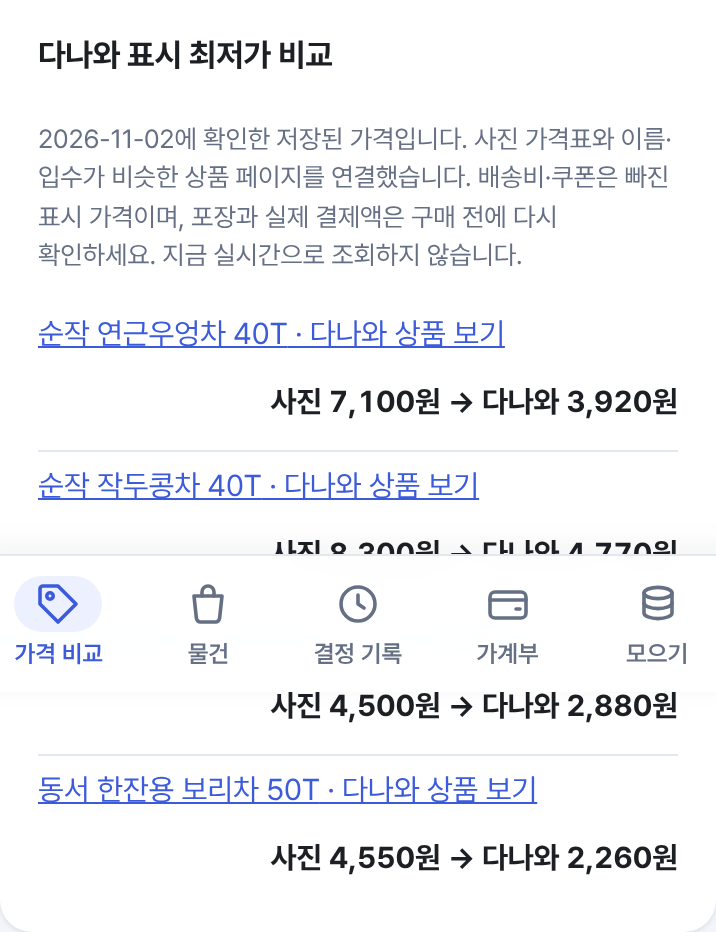
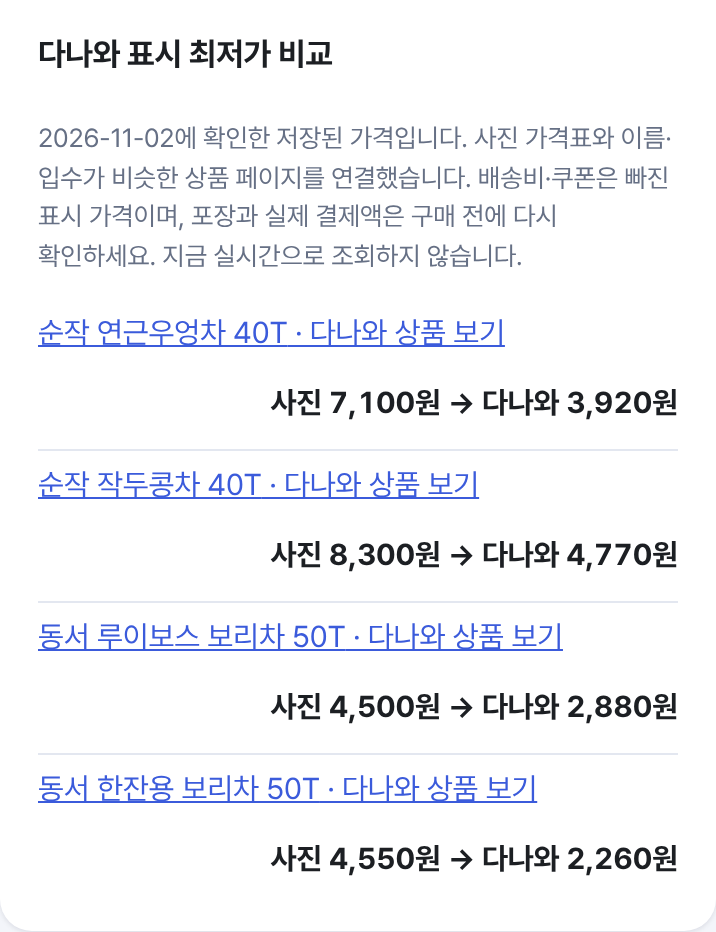
feat: photo demo shows ramen, tea and jelly shelves from real Gemini reads
Replace the two crops of the same tea shelf (rt02, rt03) with the maker's
own ramen and jelly shelf photos. Each was sent once to the local worker's
POST /api/read-tag (gemini-3.5-flash-lite); both returned 200. Names,
prices and counts are copied unchanged; the three jelly items Gemini could
not price show "가격표를 읽지 못함". The page opens on the ramen shelf;
the Danawa comparison stays on the tea shelf. No AI call on the public page.

Docs: PRD 0.94 (F83), README section 3, AI eval log (no accuracy claim),
re-shot README images; capture.cjs hides the fixed bottom menu for the two
partial shots so it no longer covers the Danawa rows.

Claude-Session: https://claude.ai/code/session_01S73EWiX1Ge5Mz64WEcmSVr

diff --git a/src/screens/ai/DemoPhotoCompare.tsx b/src/screens/ai/DemoPhotoCompare.tsx
@@ -2,10 +2,21 @@ import { useState } from 'react'
 import { formatWon } from '../../logic/number'
 import { Button } from '../../ui/Button'
 
-// 2026-11-02 로컬 Gemini 가격표 시험의 저장된 응답(rt01~rt03). 공개 화면에서는 AI를 호출하지 않는다.
+// 2026-11-02 로컬 Gemini(gemini-3.5-flash-lite) /api/read-tag 응답에서 상품명·가격·개수만 고치지 않고 옮겼다.
+// ramen·jelly는 제작자가 직접 찍은 사진, rt01은 CC0 차 진열 사진이다. 처음에는 라면 진열대를 보여 준다(2026-11-02 제작자 요청). 공개 화면에서는 AI를 호출하지 않는다.
 const samples = [
   {
-    id: 'rt01', label: '차 진열대 위 칸',
+    id: 'ramen', label: '라면 진열대', alt: '라면 봉지와 컵라면, 선반 가격표가 보이는 라면 진열대',
+    items: [
+      { name: '농심)사천왕마라탕면컵', price: 2700, count: null },
+      { name: '신마이랑신룽푸마라탕면', price: 2000, count: null },
+      { name: '농심신라면', price: 1000, count: null },
+      { name: '농심)신라면더레드봉지', price: 1500, count: null },
+      { name: '농심)신라면블랙', price: 1900, count: null },
+    ],
+  },
+  {
+    id: 'rt01', label: '차 진열대', alt: '차 상자 여섯 개와 노란 가격표가 보이는 차 진열대',
     items: [
       { name: '샘표순작연근우엉차', price: 7100, count: null },
       { name: '샘표도라지생강차티백', price: 8300, count: null },
@@ -16,23 +27,25 @@ const samples = [
     ],
   },
   {
-    id: 'rt02', label: '차 진열대 가운데 칸',
+    id: 'jelly', label: '젤리 진열대', alt: '젤리 봉지가 걸려 있고 가격표가 붙은 젤리 진열대',
     items: [
-      { name: '현미녹차', price: 2400, count: 25 },
-      { name: '한잔용보리차', price: 1950, count: 20 },
-      { name: '한잔용옥수수차', price: 2050, count: 20 },
-      { name: '루이보스보리차', price: 2300, count: 25 },
-      { name: '둥글레차', price: 3150, count: 25 },
-    ],
-  },
-  {
-    id: 'rt03', label: '차 진열대 아래 칸',
-    items: [
-      { name: '동서 한잔용 보리차', price: 8300, count: 100 },
-      { name: '동서 한잔용 옥수수차', price: 8400, count: 100 },
-      { name: '동서 현미녹차', price: 7600, count: 100 },
-      { name: '동서 메밀차', price: 8300, count: 100 },
-      { name: '동서 캐모마일 현미녹차', price: 10150, count: 80 },
+      { name: '페타구구미', price: 1800, count: null },
+      { name: '피니해피소스믹스', price: 1200, count: null },
+      { name: '피니콜라보틀', price: 1000, count: null },
+      { name: '피니해피믹스', price: null, count: null },
+      { name: '피니피지웜', price: null, count: null },
+      { name: '구미다요', price: null, count: null },
+      { name: '리치알알이', price: 1200, count: null },
+      { name: '청포도알알이', price: 1200, count: null },
+      { name: '마이구미', price: 1000, count: null },
+      { name: '마이구미복숭아포도', price: 1000, count: null },
+      { name: '왕꿈틀이', price: 1000, count: null },
+      { name: '탱글탱글키위', price: 2500, count: null },
+      { name: '레전', price: 1700, count: null },
+      { name: '레전사워젤리', price: 1700, count: null },
+      { name: '제조애플탱탱', price: 2500, count: null },
+      { name: '까먹는포도젤리', price: 2000, count: null },
+      { name: '까먹는망고젤리', price: 2000, count: null },
     ],
   },
 ] as const
@@ -49,8 +62,8 @@ const danawaChecks = [
 export function DemoPhotoCompare() {
   const [selected, setSelected] = useState(0)
   const sample = samples[selected]
-  const withCount = sample.items.filter((item) => item.count !== null)
-  const cheapest = withCount.length ? [...withCount].sort((a, b) => a.price / a.count! - b.price / b.count!)[0] : null
+  const withCount = sample.items.filter((item) => item.count !== null && item.price !== null)
+  const cheapest = withCount.length ? [...withCount].sort((a, b) => a.price! / a.count! - b.price! / b.count!)[0] : null
 
   return <section className="stack" aria-label="가격표 사진 예시 시연">
     <h3 className="section-title">가격표 사진 예시</h3>
@@ -59,15 +72,15 @@ export function DemoPhotoCompare() {
       <div className="btn-row" role="group" aria-label="예시 사진 선택">
         {samples.map((item, index) => <Button key={item.id} aria-pressed={selected === index} onClick={() => setSelected(index)}>{item.label}</Button>)}
       </div>
-      <img src={`${import.meta.env.BASE_URL}demo/${sample.id}.jpg`} alt={`${sample.label}의 차 상품과 가격표`} style={{ width: '100%', height: 'auto', display: 'block', borderRadius: '12px' }} />
+      <img src={`${import.meta.env.BASE_URL}demo/${sample.id}.jpg`} alt={sample.alt} style={{ width: '100%', height: 'auto', display: 'block', borderRadius: '12px' }} />
     </div>
     {/* 처음부터 고른 사진의 저장된 결과를 펼쳐 둔다 (F83, 2026-11-02 제작자 요청 "들어가자마자 켜져 있도록") */}
     <section className="card stack" aria-label="미리 읽은 품목과 가격 비교">
       <h4 className="card-title">미리 읽은 품목과 가격</h4>
       <p className="note">2026-11-02 로컬 Gemini 응답을 그대로 옮겼습니다. 가격표가 흐려 잘못 읽은 항목이 있을 수 있어요.</p>
-      <ul className="result-list demo-photo-results">{sample.items.map((item) => <li key={item.name}><span>{item.name}</span><strong>{formatWon(item.price)}{item.count ? ` · ${item.count}개입, 1개당 ${formatWon(Math.round(item.price / item.count))}` : ''}</strong></li>)}</ul>
-      {cheapest ? <p><strong>개당 표시 가격이 가장 낮은 항목:</strong> {cheapest.name} · 약 {formatWon(Math.round(cheapest.price / cheapest.count!))}/개</p> : null}
-      <p className="note">서로 다른 차 종류와 포장량을 한 사진에서 비교한 예시입니다. 같은 상품의 최저가나 실제 결제액을 뜻하지 않습니다.</p>
+      <ul className="result-list demo-photo-results">{sample.items.map((item) => <li key={item.name}><span>{item.name}</span><strong>{item.price === null ? '가격표를 읽지 못함' : formatWon(item.price)}{item.price !== null && item.count ? ` · ${item.count}개입, 1개당 ${formatWon(Math.round(item.price / item.count))}` : ''}</strong></li>)}</ul>
+      {cheapest ? <p><strong>개당 표시 가격이 가장 낮은 항목:</strong> {cheapest.name} · 약 {formatWon(Math.round(cheapest.price! / cheapest.count!))}/개</p> : null}
+      <p className="note">한 사진에 보인 여러 상품의 가격표를 읽은 예시입니다. 같은 상품의 다른 판매처 가격이나 실제 결제액과 비교한 결과가 아닙니다.</p>
       {sample.id === 'rt01' ? <section className="stack" aria-label="다나와 표시 최저가 비교">
         <h4 className="card-title">다나와 표시 최저가 비교</h4>
         <p className="note">2026-11-02에 확인한 저장된 가격입니다. 사진 가격표와 이름·입수가 비슷한 상품 페이지를 연결했습니다. 배송비·쿠폰은 빠진 표시 가격이며, 포장과 실제 결제액은 구매 전에 다시 확인하세요. 지금 실시간으로 조회하지 않습니다.</p>

diff --git a/src/App.demo.test.tsx b/src/App.demo.test.tsx
@@ -13,17 +13,30 @@ it('공개 빌드의 예시 사진은 저장된 품목만 보여주고 AI 요청
   expect(screen.getByRole('tab', { name: '가격표 사진 예시' })).toHaveAttribute('aria-selected', 'true')
   await user.click(screen.getByRole('tab', { name: '가격표 사진 예시' }))
   expect(screen.getByText(/사진 버튼은 사진을 다시 분석하지 않고/)).toBeInTheDocument()
-  // 처음 열면 첫 사진의 저장된 결과가 이미 펼쳐져 있다 (F83, 2026-11-02 제작자 요청)
+  // 처음 열면 첫 사진(라면 진열대)의 저장된 결과가 이미 펼쳐져 있다 (F83, 2026-11-02 제작자 요청 "들어가자마자 켜져 있도록", "처음 차 말고 라면으로")
   expect(screen.queryByRole('button', { name: '이 사진의 저장된 결과 보기' })).not.toBeInTheDocument()
+  expect(screen.getAllByRole('button', { name: /진열대$/ }).map((b) => b.textContent)).toEqual(['라면 진열대', '차 진열대', '젤리 진열대'])
+  expect(screen.getByRole('button', { name: '라면 진열대' })).toHaveAttribute('aria-pressed', 'true')
+  expect(screen.getByRole('img', { name: /라면 진열대/ })).toHaveAttribute('src', expect.stringMatching(/demo\/ramen\.jpg$/))
+  const ramen = within(screen.getByRole('region', { name: '미리 읽은 품목과 가격 비교' }))
+  expect(ramen.getByText('농심)신라면블랙')).toBeInTheDocument()
+  expect(ramen.getByText('1,900원')).toBeInTheDocument()
+  expect(ramen.queryByRole('heading', { name: '다나와 표시 최저가 비교' })).not.toBeInTheDocument()
+  // 차 진열대를 고르면 그 사진의 저장된 결과와 다나와 조회값으로 바로 바뀐다
+  await user.click(screen.getByRole('button', { name: '차 진열대' }))
   const results = within(screen.getByRole('region', { name: '미리 읽은 품목과 가격 비교' }))
+  expect(results.queryByText('농심)신라면블랙')).not.toBeInTheDocument()
   expect(results.getByText('샘표순작연근우엉차')).toBeInTheDocument()
   expect(results.getByText('7,100원')).toBeInTheDocument()
   expect(results.getByRole('heading', { name: '다나와 표시 최저가 비교' })).toBeInTheDocument()
   expect(results.getByRole('link', { name: /순작 연근우엉차 40T/ })).toHaveAttribute('href', 'https://prod.danawa.com/info/?pcode=4282090')
   expect(results.getByText('사진 7,100원 → 다나와 3,920원')).toBeInTheDocument()
-  // 다른 사진을 고르면 그 사진의 저장된 결과로 바로 바뀐다
-  await user.click(screen.getByRole('button', { name: '차 진열대 가운데 칸' }))
-  expect(within(screen.getByRole('region', { name: '미리 읽은 품목과 가격 비교' })).queryByText('샘표순작연근우엉차')).not.toBeInTheDocument()
+  // 젤리 사진: Gemini가 가격을 읽지 못한 상품은 값을 지어내지 않고 그대로 '가격표를 읽지 못함'으로 둔다
+  await user.click(screen.getByRole('button', { name: '젤리 진열대' }))
+  const jelly = within(screen.getByRole('region', { name: '미리 읽은 품목과 가격 비교' }))
+  expect(jelly.getByText('왕꿈틀이')).toBeInTheDocument()
+  expect(jelly.getAllByText('가격표를 읽지 못함')).toHaveLength(3)
+  expect(jelly.queryByRole('heading', { name: '다나와 표시 최저가 비교' })).not.toBeInTheDocument()
   expect(fetch).not.toHaveBeenCalled()
   fetch.mockRestore()
 })

diff --git a/PRD.md b/PRD.md
@@ -1,9 +1,9 @@
 # 살까말까 PRD
 
-현재 개정: **0.93** · 물건·결정 기록·고정비·모으기·가격 비교도 가계부처럼(동그란 표식·큰 숫자 칸), 기능 변경 없음 (2026-11-02) · 0.92 · 가격표 사진 예시의 결과를 처음부터 펼침(F83) (2026-11-02) · 0.91 · 가계부 달 이동·분류별 지출·날짜별 내역·이달 현황판(F84, AC203~AC208) (2026-11-02) · 0.90 · 제작자 피드백으로 그라데이션을 빼고 단색만 사용, 기능 변경 없음 (2026-11-02) · 0.89 · 색감 '세련된 블루'와 제목 아이콘·그라데이션 등 장식, 기능 변경 없음 (2026-11-02) · 0.88 · 가격 비교 입력 2열·결과 강조·물건 카드 구역 구분, 기능 변경 없음 (2026-11-02) · 0.87 · 하단 메뉴·분할 하위 탭·가계부 바로가기 등 배치와 모양 개선, 기능 변경 없음 (2026-11-02) · 0.86 · 문서 정정만: 공개 사이트의 AI 표시 문장을 F83에 맞추고 화면 전후 사진을 같은 조건으로 다시 찍음, 기능 변경 없음 (2026-11-02) · 0.85 · 가계부 달력 우선 배치와 저장되지 않는 예시, 공개 사진 시연 (2026-11-02)
+현재 개정: **0.94** · 가격표 사진 예시를 차·라면·젤리 진열대 서로 다른 사진 세 장으로(F83) (2026-11-02) · 0.93 · 물건·결정 기록·고정비·모으기·가격 비교도 가계부처럼(동그란 표식·큰 숫자 칸), 기능 변경 없음 (2026-11-02) · 0.92 · 가격표 사진 예시의 결과를 처음부터 펼침(F83) (2026-11-02) · 0.91 · 가계부 달 이동·분류별 지출·날짜별 내역·이달 현황판(F84, AC203~AC208) (2026-11-02) · 0.90 · 제작자 피드백으로 그라데이션을 빼고 단색만 사용, 기능 변경 없음 (2026-11-02) · 0.89 · 색감 '세련된 블루'와 제목 아이콘·그라데이션 등 장식, 기능 변경 없음 (2026-11-02) · 0.88 · 가격 비교 입력 2열·결과 강조·물건 카드 구역 구분, 기능 변경 없음 (2026-11-02) · 0.87 · 하단 메뉴·분할 하위 탭·가계부 바로가기 등 배치와 모양 개선, 기능 변경 없음 (2026-11-02) · 0.86 · 문서 정정만: 공개 사이트의 AI 표시 문장을 F83에 맞추고 화면 전후 사진을 같은 조건으로 다시 찍음, 기능 변경 없음 (2026-11-02) · 0.85 · 가계부 달력 우선 배치와 저장되지 않는 예시, 공개 사진 시연 (2026-11-02)
 
 작성일: 2026-10-11  
-버전: 0.93 · 1장 디자인 방향에 다른 탭의 가계부식 표시(카드 이름 앞 첫 글자 표식, 요약 큰 숫자 칸, 할인 결과 A·B 두 칸과 더 싼 쪽 강조)를 추가(2026-11-02 제작자 "다른 탭들도 가계부처럼") · 0.92 · F83 가격표 사진 예시는 처음부터 첫 사진 결과를 펼치고 '결과 보기' 버튼을 없앰(2026-11-02 제작자 요청) · 0.91 · F84 가계부 보기(달 이동·세 칸 요약·분류별 지출·날짜별 내역 묶음·이달 현황판과 달별 모을 금액·지난달 비교), AC203~AC208(2026-11-02 제작자 "뱅크샐러드를 참고해 좋아 보이는 기능도") · 0.90 · 1장 디자인 방향에서 그라데이션 장식을 빼고 단색으로 정함(2026-11-02 제작자 "그라데이션은 없는 게 더 낫다") · 0.89 · 1장 디자인 방향의 강조색을 제작자가 고른 '세련된 블루'(#3b5bdb)로 바꾸고 장식 요소를 정함(2026-11-02) · 0.88 · 1장 디자인 방향에 비교 입력 2열·결과 강조·물건 카드 구분선 추가, 기능·문구 변경 없음(2026-11-02 제작자 "좀 더 개선") · 0.87 · 1장 디자인 방향에 하단 메뉴·분할 하위 탭·가계부 바로가기와 카드·입력 모양을 추가, 기능·문구 변경 없음(2026-11-02 제작자 요청) · 0.86 · 문서 정정만: 4장의 공개 사이트 AI 문장을 F83의 저장된 예시와 맞추고 화면 전후 사진의 촬영 조건을 적음, 기능 변경 없음(2026-11-02) · 0.85 · 가계부 달력 우선 배치와 저장되지 않는 예시, 공개 사진 시연(2026-11-02) · 0.83 · 고정비·모으기 화면 순서와 기본 접힘, 지원 제도 안내 및 발표 전후 비교를 보강(2026-11-02 제작자 요청) · 0.82 · 1차 이후 비AI 기능을 분야별로 대조하고 AI 재검증 기록을 연결(2026-11-02 제작자 요청) · 0.81 · 1차 이후 추가·수정 요구사항 표시와 화면 전후 비교(2026-11-02 제작자 요청) · 0.80 · 가격 비교·사진 첫 화면과 장보기·사기 전 입력 동선 보강(F31·F49·F75·F76·F79·F81, AC195~AC202; 2026-11-02 제작자 UX 요청) · 0.78 · 9장 자동 테스트 수를 AC01~AC194·1983개로 정정(2026-11-02, 28단계 보강 뒤) · 0.77 · 자잘한 지출에서 한 주 시도 선택·저장·완료 보강(F78, AC192~AC194; 2026-11-02 최종 점검) · 0.76 · 9장 자동 테스트 수를 AC01~AC191·1979개로 정정(2026-11-02, 25~27단계 구현 뒤) · 0.75 · 정기배송 결제일과 7일 비교 기간의 화면 문구를 명확히 함(2026-11-02 구현 뒤 점검) · 0.74 · 이번 주 집밥·정기배송 중복·작은 지출 시도·사기 전 요약·결제 전 확인·상황별 시작(F76~F81, AC180~AC191; 2026-11-02 제작자 “전부다 수행해보자”) · 0.73 · 9장 자동 테스트 수 정정: AC01~AC171·1952개 → AC01~AC179·1965개(2026-11-02, 결제 달력·장보기 초안 구현 뒤) · 0.72 · 30일 결제 달력·장보기 초안(F74~F75, AC172~AC179; 2026-11-02 제작자 "두개다 ㅅ", 세부는 9장 확인 전) · 0.71 · 9장 자동 테스트 수 정정: AC01~AC162·1938개 → AC01~AC171·1952개(2026-11-02, 사용 흐름 개선 구현 뒤) · 0.70 · F73 빠른 담기에 맞춰 첫 화면 설명을 짧게 고침(AC79, 2026-11-02 제작자 입력 부담 피드백) · 0.69 · F73 빠른 담기에서 F31 사진 초안의 이유 필수 안내와 AC54 기대를 선택 입력에 맞춤(2026-11-02, 23-4 구현 중) · 0.68 · 오늘 확인할 것·빠른 물건 담기(F72~F73, F01·F24·F30 보강, AC163~AC171; 2026-11-02 제작자 추가 기능 방향 동의, 세부는 9장 확인 전) · 0.67 · 9장 자동 테스트 수 정정: AC01~AC150·1917개 → AC01~AC162·1938개(2026-11-02, 절약·저축 4단계와 백업 화면 시험 뒤) · 0.66 · 1장 디자인 방향에 제작자 화면 피드백과 공통 그림·접힘 표시 반영(2026-11-02) · 0.65 · F71 친구 정산 화면·오류 문장 명시(2026-11-02, 4단계 Task 5, 9장 제작자 확인 대기) · 0.64 · F70 포인트·쿠폰 입력·오류 문장 명시(2026-11-02, 4단계 Task 4, 9장 제작자 확인 대기) · 0.63 · F69 카드 실적 입력·오류 문장과 해당 월 범위 명시(2026-11-02, 4단계 Task 3, 9장 제작자 확인 대기) · 0.62 · F68 공식 안내와 저장 상태의 화면 문장을 명시(2026-11-02, 4단계 Task 2, 9장 제작자 확인 대기) · 0.61 · 절약·저축 4단계 받을 수 있는 돈(F68~F71·F20 보강, AC151~AC162; 2026-11-02 설계 P4·제작자 요청, 새 결정은 9장 제작자 확인 전) · 0.60 · 9장 자동 테스트 수 정정: AC01~AC132·1880개 → AC01~AC150·1917개(2026-11-02, 절약·저축 3단계와 담기 화면 개선 뒤) · 0.59 · 담기 폼 접기·쓰는 곳 후보 펼치기(F24·F45·F51, AC149~AC150; 2026-11-02 제작자 화면 요청) · 0.58 · 0.57 버전 줄의 출처 문장을 9장 결정 목록 참조로 바로잡음(2026-11-01) · 0.57 · F66·F67 모으기 별도 금액 안내 문장 명시(2026-11-01, 3단계 Task 7 준비, 9장 제작자 확인 대기) · 0.56 · 절약·저축 3단계 사기 전·산 뒤(F61~F67, F20 보강, AC133~AC148; 2026-11-01 제작자 요청·설계 P3, 새 결정은 9장 제작자 확인 전) · 0.55 · 9장 자동 테스트 수 정정: AC01~AC116·1833개 → AC01~AC132·1880개(2026-11-01, 절약·저축 2단계 구현·전체 리뷰 뒤) · 0.54 · F60 배달 비교 화면 문장·최소 주문 미달 때 무료배달 비교 숨김 명시(2026-11-01, 2단계 Task 8, Claude 결정·제작자 확인 전) · 0.53 · F59 자잘한 지출 화면·저장 안내 문장 명시(2026-11-01, 2단계 Task 7 준비, Claude 결정·제작자 확인 전) · 0.52 · F58 있어서 안 산 성공 안내와 모으기 설명 명시(2026-11-01, 2단계 Task 6 준비, Claude 결정·제작자 확인 전) · 0.51 · F57 모으기의 대체 금액 문장과 빈 상태 기준 명시(2026-11-01, 2단계 Task 5 준비, Claude 결정·제작자 확인 전) · 0.50 · F54 화면·저장 안내 문장 명시(2026-11-01, 2단계 Task 2 준비, Claude 결정·제작자 확인 전) · 0.49 · 절약·저축 P2 집에 있는 것·자잘한 지출(F54~F60, F20 보강, AC117~AC132; 2026-11-01 제작자 요청과 설계 P2, 새 결정은 9장 제작자 확인 전) · 0.48 · 9장 최종 완성 기준 자동 테스트 수 정정: AC01~AC99·1741개 → AC01~AC116·1833개(2026-11-01, 절약·저축 1b 구현 뒤 전체 테스트) · 0.47 · F52 통신 비교 링크에서 스마트초이스를 제외함(2026-11-01, 20초 재확인에도 이 환경에서 접속하지 못함) · 0.46 · 절약·저축 1b: 요금 바뀜 기록(F50, 내가 낮춘 요금은 모으기의 줄어든 고정비에)·같은 곳에 쓰는 구독·멤버십(F51)·통신 약정과 요금 비교 링크(F52)·수도·가스·전기 요금(F53, 새 키 `buyornot.bills.v1`)·정기배송 주마다와 고정비 저장 안내 이름(F45 보강)·무료 체험 끝나기 전날 캘린더(F46 보강)·해지한 날과 요금 바뀐 날(F47 보강)·백업 v2에 공과금(F20 보강), AC100~AC116, AC84 기대 문장(2026-11-01, 설계 문서 P1b와 총괄 판정 R45·R46·R47을 따름. 새 동작은 모두 9장 '절약·저축 1b에서 정한 것'에 제작자 확인 전으로 있음) · 0.45 · 9장 최종 완성 기준의 자동 테스트 수 정정: AC01~AC80·1551개 → AC01~AC99·1741개, 9장 정하지 못한 것에 고정비 종류를 바꿀 때의 안내 질문 한 줄(2026-11-01, 절약·저축 1a 최종 검토 뒤) · 0.44 · 절약·저축 1a: 고정비 정리함(F45, 구독 탭을 넓힘)·무료 체험 끝나는 날(F46)·해지했어요(F47)·모으기(F48, 줄어든 고정비·참은 구매·옮긴 돈을 따로, 저축 목표)·주요 메뉴 다섯 개(F49)·백업 v2(F20 보강), AC81~AC99(2026-11-01, 설계 문서·GPT 53번 상담·빌더 점검 뒤 총괄 판정을 따름. 새 동작은 모두 9장 '절약·저축 1a에서 정한 것'에 제작자 확인 전으로 있음) · 0.43 · F44 캡처 크게 보기(R29-N1) 이유에 10/31 정정을 덧붙임: 근거로 적은 평가 A H1은 남아 있던 모의 응답이었다(2026-10-31, 평가 C) · 0.42 · F24 완료 기준에 AC80 연결(2026-10-31, 개발 2회차 최종 재검토) · 0.41 · 9장 최종 완성 기준의 자동 테스트 수 정정: AC01~AC79·1544개 → AC01~AC80·1551개(2026-10-31, 개발 2회차 전체 리뷰 뒤) · 0.40 · 담은 물건을 바로 결정하거나 지우면 담은 직후 안내와 '방금 담았어요.'도 사라짐(F24, 판정 R43, AC80, 2026-10-31 개발 2회차 전체 리뷰, Claude 결정·제작자 확인 전) · 0.39 · 9장 최종 완성 기준의 자동 테스트 수 정정: AC01~AC68·1465개 → AC01~AC79·1544개(2026-10-31, 평가 B P10, 판정 R38) · 0.38 · 평가 2회차(평가 B) 개선: Gemini가 429를 주면 `429 upstream_limited`와 새 실패 문구, 키가 없거나 비면 Gemini를 부르지 않고 `503 disabled`(10장 AI 공통·F43, 판정 R38-P6), F32 확인 상자 첫 줄 'AI가 읽은 내용'과 F32·F44 확인 상자 첫 줄을 상자 설명으로(R38-I8·R38-P9), 구매함으로 옮긴 직후 회고 안내 한 줄(F18, R38-N3), 빈 목록일 때 서비스 설명 문장을 담기 폼 위로(F24, R38-I3), AC60 기대값, AC75~AC79(2026-10-31, 평가 B, GPT 51번, Claude 결정, 제작자 확인 전) · 0.37 · F44 치수 읽기 문구(R29-I1)의 이유에 정정: 평가 때 본 사진에 없는 치수는 남아 있던 모의 응답이었음(2026-10-31, 평가 B 뒤 확인) · 0.36 · 다른 탭 때문에 담기가 반영되지 않으면 담은 직후 안내를 띄우지 않고 입력을 그대로 둠(F24, 판정 R30), 8장 기술 문장의 '서버를 쓰지 않음' 정정(2026-10-31, 개발 1회차 준비, Claude 결정·제작자 확인 전) · 0.35 · 평가 1회차 고칠 것: 9장 남은 결정을 한 줄씩 목록으로 바꾸고 빠진 결정을 채움(P5), 사진 초안 링크 비우기(F31, 판정 R29-P2), 담은 직후 새 카드로(F24, R29-P3), 치수 읽기 'AI가 읽은 내용'(F44, R29-I1)·캡처 크게 보기(F44, R29-N1), 결과 화면 문구(F31·F32·F06, R29-I2), AC69~AC74, 9장 테스트 수·AC63 시험용 값 정정(2026-10-31, 평가 1회차 결정, GPT 50번, Claude 결정·제작자 확인 전) · 0.34: Gemini 출력 길이 상한(가격표 6144·나머지 4096)과 치수를 글자로 받기(판정 R25~R27, 2026-10-31, GPT 49번, Claude 결정·제작자 확인 전) · 0.33: F44 2단계 표기 세부(모르는 축 '모름', 상태 이름 위치, 판정 R23, 2026-10-30, Claude 결정·제작자 확인 전) · 0.32: AC65 '다른 탭에서 결정된 뒤 저장'을 기존 여러 탭 규칙(AC37-2)과 맞춤(판정 R22, 2026-10-30, Claude 결정·제작자 확인 전) · 0.31: F43 '더 읽음' 문장의 조사를 AC63 예와 맞춤({상품을|표기를}, 2026-10-30 구현 중) · 0.30: F31 상품명이 비면 온라인 확인을 막고 "상품명을 적어 주세요"·상품명 칸 80자 상한(최종 리뷰, 2026-10-30, Claude 결정·제작자 확인 전) · 0.29: F43 채점 세부(단가 가격표 정답·최저가가 같은 허용 줄·모양이 다른 응답, 판정 R14·R15, 2026-10-30, Claude 결정·제작자 확인 전) · 0.28: F33 녹음 형식이 비면 보내지 않음(R11)·받아쓰는 중 메뉴 이동은 계속(R12)·담아 두면 녹음·받아쓰기를 끊음(R13)(2026-10-30, Claude 결정·제작자 확인 전) · 0.27: F33 받아쓴 말이 비면 첫 안내 줄을 뺌(판정 R10)·'을/를 채웠어요'(2026-10-30, Claude 결정·제작자 확인 전) · 0.26: 구현 중 정한 것 반영: 사진 고르기에 capture 없음, F31 진행 문구·결과 제목, F32 상품 0개 문장·단위를 고른 뒤 채울 값 다시 보이기·'개'를 고르면 계산용 개수 비움(2026-10-30, 판정 R7~R9, Claude 결정·제작자 확인 전) · 0.25: 앱 사진 대기 상한 45초 → 60초(요청 하나마다, 서버 55초 + 5초, 2026-10-30, GPT 45번, Claude 결정·제작자 확인 전) · 0.24: 1단계 이어서 F43 AI 성적표·F44 놓을 자리 확인(2026-10-29, GPT 37~41번 상담 반영) · 0.23: 중간 과제 AI 기능 1단계 명세(F31~F33·F35, 2026-10-28, GPT 33~36번 상담 반영) · 0.22까지: 4차 추가(고민 노트) + 다듬기 + 구독 이용 분석 1단계(넷플릭스 시청 기록 파일) + 카드·담기 폼 체크리스트 + 회고를 비슷한 기록에 연결 + 오늘의 고민으로 이동 + 묶음 비교에 한 달에 쓰는 양, 무료배송 탭 뺌(10/13)
+버전: 0.94 · F83 가격표 사진 예시를 같은 차 진열대 사진의 세 칸에서 서로 다른 사진 세 장(차 진열대 CC0·라면 진열대·젤리 진열대 제작자 직접 촬영)으로 바꾸고 처음 보이는 사진을 라면 진열대로 함. 라면·젤리는 2026-11-02 로컬 Gemini 실제 응답의 상품명·가격·개수를 고치지 않고 옮김(2026-11-02 제작자 요청) · 0.93 · 1장 디자인 방향에 다른 탭의 가계부식 표시(카드 이름 앞 첫 글자 표식, 요약 큰 숫자 칸, 할인 결과 A·B 두 칸과 더 싼 쪽 강조)를 추가(2026-11-02 제작자 "다른 탭들도 가계부처럼") · 0.92 · F83 가격표 사진 예시는 처음부터 첫 사진 결과를 펼치고 '결과 보기' 버튼을 없앰(2026-11-02 제작자 요청) · 0.91 · F84 가계부 보기(달 이동·세 칸 요약·분류별 지출·날짜별 내역 묶음·이달 현황판과 달별 모을 금액·지난달 비교), AC203~AC208(2026-11-02 제작자 "뱅크샐러드를 참고해 좋아 보이는 기능도") · 0.90 · 1장 디자인 방향에서 그라데이션 장식을 빼고 단색으로 정함(2026-11-02 제작자 "그라데이션은 없는 게 더 낫다") · 0.89 · 1장 디자인 방향의 강조색을 제작자가 고른 '세련된 블루'(#3b5bdb)로 바꾸고 장식 요소를 정함(2026-11-02) · 0.88 · 1장 디자인 방향에 비교 입력 2열·결과 강조·물건 카드 구분선 추가, 기능·문구 변경 없음(2026-11-02 제작자 "좀 더 개선") · 0.87 · 1장 디자인 방향에 하단 메뉴·분할 하위 탭·가계부 바로가기와 카드·입력 모양을 추가, 기능·문구 변경 없음(2026-11-02 제작자 요청) · 0.86 · 문서 정정만: 4장의 공개 사이트 AI 문장을 F83의 저장된 예시와 맞추고 화면 전후 사진의 촬영 조건을 적음, 기능 변경 없음(2026-11-02) · 0.85 · 가계부 달력 우선 배치와 저장되지 않는 예시, 공개 사진 시연(2026-11-02) · 0.83 · 고정비·모으기 화면 순서와 기본 접힘, 지원 제도 안내 및 발표 전후 비교를 보강(2026-11-02 제작자 요청) · 0.82 · 1차 이후 비AI 기능을 분야별로 대조하고 AI 재검증 기록을 연결(2026-11-02 제작자 요청) · 0.81 · 1차 이후 추가·수정 요구사항 표시와 화면 전후 비교(2026-11-02 제작자 요청) · 0.80 · 가격 비교·사진 첫 화면과 장보기·사기 전 입력 동선 보강(F31·F49·F75·F76·F79·F81, AC195~AC202; 2026-11-02 제작자 UX 요청) · 0.78 · 9장 자동 테스트 수를 AC01~AC194·1983개로 정정(2026-11-02, 28단계 보강 뒤) · 0.77 · 자잘한 지출에서 한 주 시도 선택·저장·완료 보강(F78, AC192~AC194; 2026-11-02 최종 점검) · 0.76 · 9장 자동 테스트 수를 AC01~AC191·1979개로 정정(2026-11-02, 25~27단계 구현 뒤) · 0.75 · 정기배송 결제일과 7일 비교 기간의 화면 문구를 명확히 함(2026-11-02 구현 뒤 점검) · 0.74 · 이번 주 집밥·정기배송 중복·작은 지출 시도·사기 전 요약·결제 전 확인·상황별 시작(F76~F81, AC180~AC191; 2026-11-02 제작자 “전부다 수행해보자”) · 0.73 · 9장 자동 테스트 수 정정: AC01~AC171·1952개 → AC01~AC179·1965개(2026-11-02, 결제 달력·장보기 초안 구현 뒤) · 0.72 · 30일 결제 달력·장보기 초안(F74~F75, AC172~AC179; 2026-11-02 제작자 "두개다 ㅅ", 세부는 9장 확인 전) · 0.71 · 9장 자동 테스트 수 정정: AC01~AC162·1938개 → AC01~AC171·1952개(2026-11-02, 사용 흐름 개선 구현 뒤) · 0.70 · F73 빠른 담기에 맞춰 첫 화면 설명을 짧게 고침(AC79, 2026-11-02 제작자 입력 부담 피드백) · 0.69 · F73 빠른 담기에서 F31 사진 초안의 이유 필수 안내와 AC54 기대를 선택 입력에 맞춤(2026-11-02, 23-4 구현 중) · 0.68 · 오늘 확인할 것·빠른 물건 담기(F72~F73, F01·F24·F30 보강, AC163~AC171; 2026-11-02 제작자 추가 기능 방향 동의, 세부는 9장 확인 전) · 0.67 · 9장 자동 테스트 수 정정: AC01~AC150·1917개 → AC01~AC162·1938개(2026-11-02, 절약·저축 4단계와 백업 화면 시험 뒤) · 0.66 · 1장 디자인 방향에 제작자 화면 피드백과 공통 그림·접힘 표시 반영(2026-11-02) · 0.65 · F71 친구 정산 화면·오류 문장 명시(2026-11-02, 4단계 Task 5, 9장 제작자 확인 대기) · 0.64 · F70 포인트·쿠폰 입력·오류 문장 명시(2026-11-02, 4단계 Task 4, 9장 제작자 확인 대기) · 0.63 · F69 카드 실적 입력·오류 문장과 해당 월 범위 명시(2026-11-02, 4단계 Task 3, 9장 제작자 확인 대기) · 0.62 · F68 공식 안내와 저장 상태의 화면 문장을 명시(2026-11-02, 4단계 Task 2, 9장 제작자 확인 대기) · 0.61 · 절약·저축 4단계 받을 수 있는 돈(F68~F71·F20 보강, AC151~AC162; 2026-11-02 설계 P4·제작자 요청, 새 결정은 9장 제작자 확인 전) · 0.60 · 9장 자동 테스트 수 정정: AC01~AC132·1880개 → AC01~AC150·1917개(2026-11-02, 절약·저축 3단계와 담기 화면 개선 뒤) · 0.59 · 담기 폼 접기·쓰는 곳 후보 펼치기(F24·F45·F51, AC149~AC150; 2026-11-02 제작자 화면 요청) · 0.58 · 0.57 버전 줄의 출처 문장을 9장 결정 목록 참조로 바로잡음(2026-11-01) · 0.57 · F66·F67 모으기 별도 금액 안내 문장 명시(2026-11-01, 3단계 Task 7 준비, 9장 제작자 확인 대기) · 0.56 · 절약·저축 3단계 사기 전·산 뒤(F61~F67, F20 보강, AC133~AC148; 2026-11-01 제작자 요청·설계 P3, 새 결정은 9장 제작자 확인 전) · 0.55 · 9장 자동 테스트 수 정정: AC01~AC116·1833개 → AC01~AC132·1880개(2026-11-01, 절약·저축 2단계 구현·전체 리뷰 뒤) · 0.54 · F60 배달 비교 화면 문장·최소 주문 미달 때 무료배달 비교 숨김 명시(2026-11-01, 2단계 Task 8, Claude 결정·제작자 확인 전) · 0.53 · F59 자잘한 지출 화면·저장 안내 문장 명시(2026-11-01, 2단계 Task 7 준비, Claude 결정·제작자 확인 전) · 0.52 · F58 있어서 안 산 성공 안내와 모으기 설명 명시(2026-11-01, 2단계 Task 6 준비, Claude 결정·제작자 확인 전) · 0.51 · F57 모으기의 대체 금액 문장과 빈 상태 기준 명시(2026-11-01, 2단계 Task 5 준비, Claude 결정·제작자 확인 전) · 0.50 · F54 화면·저장 안내 문장 명시(2026-11-01, 2단계 Task 2 준비, Claude 결정·제작자 확인 전) · 0.49 · 절약·저축 P2 집에 있는 것·자잘한 지출(F54~F60, F20 보강, AC117~AC132; 2026-11-01 제작자 요청과 설계 P2, 새 결정은 9장 제작자 확인 전) · 0.48 · 9장 최종 완성 기준 자동 테스트 수 정정: AC01~AC99·1741개 → AC01~AC116·1833개(2026-11-01, 절약·저축 1b 구현 뒤 전체 테스트) · 0.47 · F52 통신 비교 링크에서 스마트초이스를 제외함(2026-11-01, 20초 재확인에도 이 환경에서 접속하지 못함) · 0.46 · 절약·저축 1b: 요금 바뀜 기록(F50, 내가 낮춘 요금은 모으기의 줄어든 고정비에)·같은 곳에 쓰는 구독·멤버십(F51)·통신 약정과 요금 비교 링크(F52)·수도·가스·전기 요금(F53, 새 키 `buyornot.bills.v1`)·정기배송 주마다와 고정비 저장 안내 이름(F45 보강)·무료 체험 끝나기 전날 캘린더(F46 보강)·해지한 날과 요금 바뀐 날(F47 보강)·백업 v2에 공과금(F20 보강), AC100~AC116, AC84 기대 문장(2026-11-01, 설계 문서 P1b와 총괄 판정 R45·R46·R47을 따름. 새 동작은 모두 9장 '절약·저축 1b에서 정한 것'에 제작자 확인 전으로 있음) · 0.45 · 9장 최종 완성 기준의 자동 테스트 수 정정: AC01~AC80·1551개 → AC01~AC99·1741개, 9장 정하지 못한 것에 고정비 종류를 바꿀 때의 안내 질문 한 줄(2026-11-01, 절약·저축 1a 최종 검토 뒤) · 0.44 · 절약·저축 1a: 고정비 정리함(F45, 구독 탭을 넓힘)·무료 체험 끝나는 날(F46)·해지했어요(F47)·모으기(F48, 줄어든 고정비·참은 구매·옮긴 돈을 따로, 저축 목표)·주요 메뉴 다섯 개(F49)·백업 v2(F20 보강), AC81~AC99(2026-11-01, 설계 문서·GPT 53번 상담·빌더 점검 뒤 총괄 판정을 따름. 새 동작은 모두 9장 '절약·저축 1a에서 정한 것'에 제작자 확인 전으로 있음) · 0.43 · F44 캡처 크게 보기(R29-N1) 이유에 10/31 정정을 덧붙임: 근거로 적은 평가 A H1은 남아 있던 모의 응답이었다(2026-10-31, 평가 C) · 0.42 · F24 완료 기준에 AC80 연결(2026-10-31, 개발 2회차 최종 재검토) · 0.41 · 9장 최종 완성 기준의 자동 테스트 수 정정: AC01~AC79·1544개 → AC01~AC80·1551개(2026-10-31, 개발 2회차 전체 리뷰 뒤) · 0.40 · 담은 물건을 바로 결정하거나 지우면 담은 직후 안내와 '방금 담았어요.'도 사라짐(F24, 판정 R43, AC80, 2026-10-31 개발 2회차 전체 리뷰, Claude 결정·제작자 확인 전) · 0.39 · 9장 최종 완성 기준의 자동 테스트 수 정정: AC01~AC68·1465개 → AC01~AC79·1544개(2026-10-31, 평가 B P10, 판정 R38) · 0.38 · 평가 2회차(평가 B) 개선: Gemini가 429를 주면 `429 upstream_limited`와 새 실패 문구, 키가 없거나 비면 Gemini를 부르지 않고 `503 disabled`(10장 AI 공통·F43, 판정 R38-P6), F32 확인 상자 첫 줄 'AI가 읽은 내용'과 F32·F44 확인 상자 첫 줄을 상자 설명으로(R38-I8·R38-P9), 구매함으로 옮긴 직후 회고 안내 한 줄(F18, R38-N3), 빈 목록일 때 서비스 설명 문장을 담기 폼 위로(F24, R38-I3), AC60 기대값, AC75~AC79(2026-10-31, 평가 B, GPT 51번, Claude 결정, 제작자 확인 전) · 0.37 · F44 치수 읽기 문구(R29-I1)의 이유에 정정: 평가 때 본 사진에 없는 치수는 남아 있던 모의 응답이었음(2026-10-31, 평가 B 뒤 확인) · 0.36 · 다른 탭 때문에 담기가 반영되지 않으면 담은 직후 안내를 띄우지 않고 입력을 그대로 둠(F24, 판정 R30), 8장 기술 문장의 '서버를 쓰지 않음' 정정(2026-10-31, 개발 1회차 준비, Claude 결정·제작자 확인 전) · 0.35 · 평가 1회차 고칠 것: 9장 남은 결정을 한 줄씩 목록으로 바꾸고 빠진 결정을 채움(P5), 사진 초안 링크 비우기(F31, 판정 R29-P2), 담은 직후 새 카드로(F24, R29-P3), 치수 읽기 'AI가 읽은 내용'(F44, R29-I1)·캡처 크게 보기(F44, R29-N1), 결과 화면 문구(F31·F32·F06, R29-I2), AC69~AC74, 9장 테스트 수·AC63 시험용 값 정정(2026-10-31, 평가 1회차 결정, GPT 50번, Claude 결정·제작자 확인 전) · 0.34: Gemini 출력 길이 상한(가격표 6144·나머지 4096)과 치수를 글자로 받기(판정 R25~R27, 2026-10-31, GPT 49번, Claude 결정·제작자 확인 전) · 0.33: F44 2단계 표기 세부(모르는 축 '모름', 상태 이름 위치, 판정 R23, 2026-10-30, Claude 결정·제작자 확인 전) · 0.32: AC65 '다른 탭에서 결정된 뒤 저장'을 기존 여러 탭 규칙(AC37-2)과 맞춤(판정 R22, 2026-10-30, Claude 결정·제작자 확인 전) · 0.31: F43 '더 읽음' 문장의 조사를 AC63 예와 맞춤({상품을|표기를}, 2026-10-30 구현 중) · 0.30: F31 상품명이 비면 온라인 확인을 막고 "상품명을 적어 주세요"·상품명 칸 80자 상한(최종 리뷰, 2026-10-30, Claude 결정·제작자 확인 전) · 0.29: F43 채점 세부(단가 가격표 정답·최저가가 같은 허용 줄·모양이 다른 응답, 판정 R14·R15, 2026-10-30, Claude 결정·제작자 확인 전) · 0.28: F33 녹음 형식이 비면 보내지 않음(R11)·받아쓰는 중 메뉴 이동은 계속(R12)·담아 두면 녹음·받아쓰기를 끊음(R13)(2026-10-30, Claude 결정·제작자 확인 전) · 0.27: F33 받아쓴 말이 비면 첫 안내 줄을 뺌(판정 R10)·'을/를 채웠어요'(2026-10-30, Claude 결정·제작자 확인 전) · 0.26: 구현 중 정한 것 반영: 사진 고르기에 capture 없음, F31 진행 문구·결과 제목, F32 상품 0개 문장·단위를 고른 뒤 채울 값 다시 보이기·'개'를 고르면 계산용 개수 비움(2026-10-30, 판정 R7~R9, Claude 결정·제작자 확인 전) · 0.25: 앱 사진 대기 상한 45초 → 60초(요청 하나마다, 서버 55초 + 5초, 2026-10-30, GPT 45번, Claude 결정·제작자 확인 전) · 0.24: 1단계 이어서 F43 AI 성적표·F44 놓을 자리 확인(2026-10-29, GPT 37~41번 상담 반영) · 0.23: 중간 과제 AI 기능 1단계 명세(F31~F33·F35, 2026-10-28, GPT 33~36번 상담 반영) · 0.22까지: 4차 추가(고민 노트) + 다듬기 + 구독 이용 분석 1단계(넷플릭스 시청 기록 파일) + 카드·담기 폼 체크리스트 + 회고를 비슷한 기록에 연결 + 오늘의 고민으로 이동 + 묶음 비교에 한 달에 쓰는 양, 무료배송 탭 뺌(10/13)
 제작자: 강승준  
 완성 목표일: 2026-10-17 (1주 이내)  
 중간 과제(인공지능 프로그래밍) 마감: 미정 (제작자 확인 필요)  
@@ -60,11 +60,11 @@
 
 **F82 가계부:** 수입·지출을 수동 입력하고 선택한 달의 수입·지출·차액과 내역을 표시한다. 입력 내역은 이 브라우저에 저장하고 삭제할 수 있다. 기존 고정비와 자잘한 지출은 별도 기록이므로 장부 합계에 자동 합산하지 않는다. 사용자가 같은 지출을 다시 입력하면 중복될 수 있음을 화면에 알린다. 기존 백업 판 1~3은 가계부가 빈 상태로 복원하고 판 4부터 가계부를 함께 복원한다. 계좌 간 옮긴 돈은 수입이나 지출로 계산하지 않는다. 가계부 탭은 펼친 30일 결제 달력을 맨 앞에 둔다. 고정비 기록이 없는 새 브라우저에는 저장되지 않는 예시 결제 4건을 달력에 보여 주고, 실제 고정비를 등록하면 그 예시는 사라진다. 가계부에도 예시 수입·지출을 저장하지 않고 보여 주며 첫 실제 입력 때 사라진다.
 
-**F83 공개 AI 예시:** 실시간 공개 AI가 동작하지 않는 동안 가격 비교의 첫 화면에 로컬 Gemini가 이미 읽은 차 진열대 사진 3장과 당시 품목·가격 결과를 표시한다. 첫 사진에는 2026-11-02에 다나와 상품 페이지에서 확인한 표시 최저가 4건과 출처를 결과 아래에 함께 제시한다. 이는 배송비·쿠폰을 뺀 과거 조회값이며 사진 속 포장과 같은 상품인지 재확인이 필요하다. 처음 열면 첫 사진의 저장된 결과를 이미 펼쳐 두고(2026-11-02 제작자 요청 "들어가자마자 켜져 있도록", 따로 누르는 '결과 보기' 버튼 없음), 다른 사진을 고르면 그 사진의 저장된 결과로 바꾸되 새 AI 요청·온라인 가격 조회는 하지 않는다. 서로 다른 품목의 개당 가격은 참고만 하도록 안내한다. 음성 버튼도 녹음 대신 준비한 문장으로 폼 채우기만 시연하며, 두 예시를 실제 분석과 분명히 구분한다.
+**F83 공개 AI 예시:** 실시간 공개 AI가 동작하지 않는 동안 가격 비교의 첫 화면에 로컬 Gemini가 이미 읽은 서로 다른 진열대 사진 3장(차 진열대: CC0 공개 사진, 라면 진열대·젤리 진열대: 제작자 직접 촬영, 2026-11-02 제작자 요청)과 당시 품목·가격 결과를 표시한다. 표시하는 값은 실제 Gemini 응답의 상품명·가격·개수를 고치지 않고 옮긴 것이며, Gemini가 가격을 읽지 못한 상품은 값을 채우지 않고 '가격표를 읽지 못함'으로 둔다. 차 진열대 사진에는 2026-11-02에 다나와 상품 페이지에서 확인한 표시 최저가 4건과 출처를 결과 아래에 함께 제시한다. 이는 배송비·쿠폰을 뺀 과거 조회값이며 사진 속 포장과 같은 상품인지 재확인이 필요하다. 처음 열면 사진 버튼은 라면 진열대·차 진열대·젤리 진열대 순서이고, 첫 사진인 라면 진열대의 저장된 결과를 이미 펼쳐 두고(2026-11-02 제작자 요청 "들어가자마자 켜져 있도록"·"처음 차 말고 라면으로", 따로 누르는 '결과 보기' 버튼 없음), 다른 사진을 고르면 그 사진의 저장된 결과로 바꾸되 새 AI 요청·온라인 가격 조회는 하지 않는다. 서로 다른 품목의 개당 가격은 참고만 하도록 안내한다. 음성 버튼도 녹음 대신 준비한 문장으로 폼 채우기만 시연하며, 두 예시를 실제 분석과 분명히 구분한다.
 
 **F84 가계부 보기 (2026-11-02 제작자 요청 "가계부 앱(뱅크샐러드)을 참고해 디자인을 고치고 좋아 보이는 기능도 가져오자"):** 이미 적은 가계부 기록만으로 다음을 보여 준다. 저장 형식·백업 판은 바꾸지 않고, 은행·카드 연동이나 자동 수집은 하지 않는다(기록은 이 브라우저에만). ① 요약 카드의 '볼 달' 옆에 '이전 달'·'다음 달' 버튼을 두고 누르면 한 달씩 옮긴다(1월의 이전 달은 전년 12월). ② 수입·지출·차이를 세 칸으로 나란히 보인다. ⑤ '이달 현황판'(제작자 추가 요청 "월마다 들어오는 돈, 모으고 싶은 금액, 지출 내역을 하나의 가로 막대로"): 그 달 수입을 막대 전체로 두고 지출·모을 금액·남는 돈을 차례로 나눠 칠한다. 같은 내용을 막대 아래 글로 '수입 X원 중 지출 A원(a%) · 모을 금액 B원(b%) · 남는 돈 C원(c%)'처럼 보인다(비율은 수입 대비 반올림 정수 %). 모을 금액은 현황판의 '이번 달 모을 금액' 칸에 달마다 0원~10억 원 정수로 적어 저장하고, 비우고 저장하면 그 달 목표를 지운다. 지출+모을 금액이 수입보다 크면 남는 돈 대신 '수입보다 D원 많아요'를 보이고 막대는 넘친 만큼 잘라 그린다. 수입이 0원이면 막대 대신 '이 달 수입을 적으면 현황판이 채워져요.'를 보인다. 모을 금액은 가계부 기록(`buyornot.ledger.v1`)에 달별 값으로 함께 저장하므로 백업 판 4에 그대로 들어가고, 이 값이 없는 옛 기록·백업도 그대로 읽는다. 모을 금액은 목표일 뿐이며 실제로 옮긴 돈(모으기)과 합산하지 않는다. ⑥ 요약 카드 아래에 지난달 지출과 비교한 한 줄을 보인다: '지난달보다 N원 덜 썼어요' / 'N원 더 썼어요' / '지난달과 같아요'. 지난달 기록이 하나도 없으면 줄을 보이지 않는다. 예시 금액을 보여 줄 때도 보이지 않는다 ③ 지출이 있는 달에는 '분류별 지출' 카드에 지출 분류마다 금액과 그 달 지출 중 비율(반올림한 정수 %)을 금액이 큰 순서로 보인다. 수입만 있거나 기록이 없는 달에는 카드를 보이지 않는다. ④ 내역은 날짜별로 묶고 묶음 머리에 'M월 D일 (요일)'과 그날의 수입·지출 합계(0원인 쪽은 생략)를 보인다. 저장되지 않는 예시 금액에도 같은 화면을 쓴다
 
-구현 시점과 완료·보류 상태는 [개발 Todo](./TODO.md)의 18~35단계에 적었다. AI 사진·음성은 위의 직접 입력 기능에 더해 선택할 수 있다. 공개 사이트에서는 AI 서버가 연결되기 전까지 실제 사진 올리기·녹음 입력을 숨기고, 대신 F83의 저장된 예시(사진 3장의 읽기 결과, 준비한 음성 문장)를 보여 준다. 이 예시는 AI를 호출하지 않는다.
+구현 시점과 완료·보류 상태는 [개발 Todo](./TODO.md)의 18~39단계에 적었다. AI 사진·음성은 위의 직접 입력 기능에 더해 선택할 수 있다. 공개 사이트에서는 AI 서버가 연결되기 전까지 실제 사진 올리기·녹음 입력을 숨기고, 대신 F83의 저장된 예시(사진 3장의 읽기 결과, 준비한 음성 문장)를 보여 준다. 이 예시는 AI를 호출하지 않는다.
 
 **실제 화면 전후:** 1차는 물건 담기에서 시작했고, 개선본은 가격 비교의 가격표 사진 예시(저장된 결과)에서 시작한다. 두 화면은 새 브라우저에서 같은 휴대폰 화면 크기(390×844, 2배)로 찍었다. 다른 장면과 캡처 조건은 [1차·중간 과제 화면 비교](./docs/midterm_compare/README.md)에 있다.
 

diff --git a/README.md b/README.md
@@ -22,7 +22,7 @@
 | --- | --- |
 | 사고 싶은 물건의 이름·가격·이유를 적고 며칠 고민 | **빠른 담기:** 이름·가격부터 적고 이유는 나중에 씀. 오늘과 7일 안에 볼 일을 기존 기록에서 보여 줌. 공개 사이트에서는 준비한 문장으로 칸을 채우는 **예시 음성** 버튼 제공(녹음·AI 호출 없음) |
 | 질문 6개와 구매 직전 걸리는 점 확인 | **구매 근거 확장:** 집에 같은 물건, 놓을 자리, 할부 총액, 사용 횟수, 대용량 소비 기간, 목표가를 사기 전 한곳에서 확인 |
-| 할인·배송비와 묶음 가격을 손으로 비교 | **비교 방법 확장:** 배달 앱의 최종 결제액, 생필품의 이전 가격을 비교. 로컬 AI 서버에서는 가격표·묶음 사진으로 입력 가능. 공개 사이트에서는 사진 3장의 **저장된** 읽기 결과와 2026-11-02에 확인한 다나와 표시 가격을 보여 줌 |
+| 할인·배송비와 묶음 가격을 손으로 비교 | **비교 방법 확장:** 배달 앱의 최종 결제액, 생필품의 이전 가격을 비교. 로컬 AI 서버에서는 가격표·묶음 사진으로 입력 가능. 공개 사이트에서는 차·라면·젤리 진열대 사진 3장의 **저장된** 읽기 결과와 2026-11-02에 확인한 다나와 표시 가격을 보여 줌 |
 | 구독 목록과 월·연 요금 | **가계부로 확장:** 수입·지출을 직접 적고 월별 합계를 확인. ‹ › 로 달을 넘기고, 수입을 지출·모을 금액·남는 돈으로 나눈 **이달 현황판 막대**, 분류별 지출 순위, 날짜별 내역, 지난달 대비 지출을 보여 줌. 고정비·공과금·자잘한 지출·30일 결제 달력을 한 탭에 모음 |
 | 집에 있는 것과 장보기 기록 없음 | **장보기 연결:** 재고, 먼저 쓸 식재료, 이번 주 집밥 계획과 장보기 초안. 이미 있어서 안 산 일도 기록 |
 | 절약·저축 기록 없음 | **모으기:** 참은 구매, 실제 옮긴 돈, 줄어든 고정비를 구분. 받을 수 있는 돈·카드 실적·쿠폰 만료도 기록. 자잘한 지출은 가계부로 이동 |
@@ -74,7 +74,7 @@
 | 처음 계획 또는 1차 상태 | 개발 중 변경한 내용과 이유 |
 | --- | --- |
 | 물건을 담을 때 이유까지 입력 | 입력이 길어져 상품명·가격을 먼저 받고 이유는 선택으로 변경 |
-| 사진 AI가 없어 직접 비교만 가능 | 로컬 사진·음성 AI와 결과 수정 단계를 추가. 공개 서버 연결이 실패해 사진 3장의 저장된 결과와 준비한 음성 문장만 다시 보여 주고, 실시간 분석은 보류 |
+| 사진 AI가 없어 직접 비교만 가능 | 로컬 사진·음성 AI와 결과 수정 단계를 추가. 공개 서버 연결이 실패해 서로 다른 진열대 사진 3장의 저장된 결과와 준비한 음성 문장만 다시 보여 주고, 실시간 분석은 보류 |
 | 구독을 월·연 요금으로 정리 | 반복 결제의 범위가 넓어 고정비·공과금·정기배송·결제 달력으로 확장 |
 | 집밥과 장보기 선택이 따로 있어 중복 | 장보기에서 이번 주 요리 선택을 한곳으로 합침 |
 | 구매 전 질문과 구매 후 메모가 따로 있음 | 기존 재고·가격·사용 기록을 사기 전 근거에 모으고, 반품·되팔기까지 구매 후 기록에 연결 |
@@ -90,18 +90,23 @@
 
 **교수님이 공개 링크에서 직접 사진을 올리거나 음성을 녹음해 AI 분석을 시험할 수는 없습니다.** Cloudflare Worker와 Gemini 키를 설정했지만 실제 공개 사진 요청이 상위 서버 오류로 실패했습니다. 호출 한도를 고려해 공개 Worker의 AI를 껐고, 원인 조사는 이후 개선 과제로 남겼습니다. 직접 입력으로 하는 가격 비교와 가계부 등은 정상 사용할 수 있습니다.
 
-공개 화면은 `가격 비교 → 가격표 사진 예시`에서 시작합니다. 처음 열면 첫 사진의 **미리 저장된 상품명·사진 가격·개당 가격**과 다나와 조회값이 이미 펼쳐져 있고, 다른 사진 버튼을 누르면 그 사진의 저장된 결과로 바뀝니다. `물건 → 물건 담기 → 예시 음성 결과 채우기`는 미리 준비한 문장(‘무선 헤드폰 8만 원, 통학할 때 쓰려고 해요’)을 폼에 넣습니다. 두 버튼은 Gemini나 마이크를 호출하지 않습니다. 임의의 사진 업로드·음성 녹음·온라인 최저가 자동 조회는 보류 상태입니다.
+공개 화면은 `가격 비교 → 가격표 사진 예시`에서 시작합니다. 처음 열면 첫 사진인 **라면 진열대의 미리 저장된 상품명·사진 가격**이 이미 펼쳐져 있고, 다른 사진 버튼을 누르면 그 사진의 저장된 결과로 바뀝니다. `물건 → 물건 담기 → 예시 음성 결과 채우기`는 미리 준비한 문장(‘무선 헤드폰 8만 원, 통학할 때 쓰려고 해요’)을 폼에 넣습니다. 두 버튼은 Gemini나 마이크를 호출하지 않습니다. 임의의 사진 업로드·음성 녹음·온라인 최저가 자동 조회는 보류 상태입니다.
 
-아래 사진은 [Wikimedia Commons의 CC0 차 진열 사진](https://commons.wikimedia.org/wiki/File:Various_Teas_from_South_Korea.jpg)을 잘라 쓴 조정용 자료(`rt01`)입니다. 같은 사진을 **① 로컬 앱에서 실제 Gemini로 읽은 화면**과 **② 공개 사이트가 그날 저장한 응답을 다시 보여 주는 화면**으로 나눠 실었습니다. ②는 버튼을 누를 때마다 새로 분석한 결과가 아닙니다.
+예시 사진은 서로 다른 진열대 세 장입니다. **차 진열대**는 [Wikimedia Commons의 CC0 차 진열 사진](https://commons.wikimedia.org/wiki/File:Various_Teas_from_South_Korea.jpg)을 잘라 쓴 조정용 자료(`rt01`), **라면 진열대·젤리 진열대**는 제작자가 직접 찍은 사진입니다. 세 장 모두 2026-11-02 로컬 서버에서 실제 Gemini(`gemini-3.5-flash-lite`)에 한 번씩 보내 받은 응답의 상품명·가격·개수를 고치지 않고 옮겼습니다. 젤리 사진에서 Gemini가 가격을 읽지 못한 3개는 값을 채우지 않고 ‘가격표를 읽지 못함’으로 둡니다. 호출 기록은 [AI 평가 기록](docs/ai-eval.md)에 있고, 이 두 장은 정답 파일이 없어 정확도를 재지 않았습니다.
 
-<img src="public/demo/rt01.jpg" width="520" alt="조정용 차 진열대 위 칸 사진. 차 상자 여섯 개와 노란 가격표가 있다">
+| 라면 진열대 (직접 촬영, 첫 화면) | 차 진열대 (CC0) | 젤리 진열대 (직접 촬영) |
+| :---: | :---: | :---: |
+| <img src="public/demo/ramen.jpg" width="250" alt="라면 진열대 사진. 신라면 봉지와 선반 가격표가 있다"> | <img src="public/demo/rt01.jpg" width="250" alt="차 진열대 사진. 차 상자 여섯 개와 노란 가격표가 있다"> | <img src="public/demo/jelly.jpg" width="250" alt="젤리 진열대 사진. 걸려 있는 젤리 봉지와 가격표가 있다"> |
+| 5개 읽음, 모두 가격 있음 | 6개 읽음, 다나와 비교 4건 | 17개 읽음, 3개는 가격 못 읽음 |
+
+아래는 차 진열대 사진입니다. 같은 사진을 **① 로컬 앱에서 실제 Gemini로 읽은 화면**과 **② 공개 사이트가 그날 저장한 응답을 다시 보여 주는 화면**으로 나눠 실었습니다. ②는 버튼을 누를 때마다 새로 분석한 결과가 아닙니다.
 
 | ① 로컬 Gemini가 실제로 채운 수정 칸 | ② 공개 사이트: 저장된 읽기 결과 |
 | :---: | :---: |
 | <img src="docs/midterm_compare/08-ai-result-current.png" width="300" alt="로컬 앱에서 Gemini가 읽어 상품명 샘표순작연근우엉차와 가격 7100을 채운 수정 가능한 입력 칸"> | <img src="docs/midterm_compare/12-photo-demo.png" width="300" alt="공개 사이트의 미리 읽은 품목과 가격. 2026-11-02 로컬 Gemini 응답을 옮긴 여섯 품목의 가격과 50개입 상품의 개당 가격"> |
 | 2026-11-02 로컬 실행. 첫 상품 **‘샘표순작연근우엉차’·7,100원**이 채워졌고 사용자가 고칠 수 있음 | 같은 날 저장한 응답을 그대로 표시. 서로 다른 차를 한 사진에서 비교한 예시라 최저가·실제 결제액이 아님 |
 
-첫 사진의 결과 아래에는 2026-11-02에 다나와 상품 페이지에서 직접 확인한 **표시 최저가 4건**과 원문 링크를 붙였습니다. 배송비·쿠폰이 빠진 과거 조회값이고, 사진 속 상품과 포장 수량이 같은지는 구매 전에 다시 확인해야 합니다. 공개 사이트는 다나와를 실시간으로 조회하지 않습니다.
+`차 진열대` 버튼을 누르면 결과 아래에 2026-11-02에 다나와 상품 페이지에서 직접 확인한 **표시 최저가 4건**과 원문 링크를 붙였습니다. 배송비·쿠폰이 빠진 과거 조회값이고, 사진 속 상품과 포장 수량이 같은지는 구매 전에 다시 확인해야 합니다. 공개 사이트는 다나와를 실시간으로 조회하지 않습니다.
 
 <img src="docs/midterm_compare/14-danawa-prices.png" width="340" alt="공개 사이트의 다나와 표시 최저가 비교. 2026-11-02에 확인한 저장된 가격이라는 안내와 사진 가격 대 다나와 가격 네 줄, 상품 페이지 링크">
 

diff --git a/docs/ai-eval.md b/docs/ai-eval.md
@@ -1,5 +1,18 @@
 # AI 정확도 평가 기록
 
+## 2026-11-02 공개 시연용 직접 촬영 사진 2장 호출
+
+공개 화면의 가격표 사진 예시(F83)를 서로 다른 사진 세 장으로 바꾸려고, 제작자가 직접 찍은 **라면 진열대·젤리 진열대 사진 2장**을 로컬 `wrangler dev`의 `POST /api/read-tag`에 앱과 같은 모양(`{ image, mimeType: 'image/jpeg' }`, 긴 변 1600px 이하·품질 0.85)으로 **사진마다 한 번** 보냈다. 모델은 `gemini-3.5-flash-lite`, 프롬프트·설정은 바꾸지 않았다. 응답 원본은 Git 밖 `_개인기록/`에 보관했다.
+
+| 사진 | 출처 | HTTP | 읽은 상품 | 가격 읽음 | 응답 요약 |
+| --- | --- | --- | --- | --- | --- |
+| 라면 진열대 | 제작자 직접 촬영 | 200 | 5 | 5 | 사천왕마라탕면컵 2,700원, 신룽푸마라탕면 2,000원, 신라면 1,000원, 신라면더레드봉지 1,500원, 신라면블랙 1,900원. 4개에 `priceBasis: "100g"`가 붙음(가격표의 단가 표기와 판매가를 섞어 읽은 것으로 보이나 채점하지 않음) |
+| 젤리 진열대 | 제작자 직접 촬영 | 200 | 17 | 14 | 3개(피니해피믹스·피니피지웜·구미다요)는 `tagReadable: false`·가격 null. 2개에 `priceCondition`(3개 2,000원·3개 5,000원) |
+
+첫 요청은 로컬 `AI_ENABLED`가 꺼져 있어 Gemini를 부르기 전에 `503 disabled`로 끝났다(호출 없음). 로컬 설정만 켜고 다시 보낸 위 두 번이 실제 호출이다.
+
+공개 화면에는 응답의 상품명·가격·개수만 고치지 않고 옮겼다. 사진에 맞는 정답 파일을 만들지 않았으므로 **이 기록은 정확도 측정이 아니며 정확도를 주장하지 않는다.** 평가용·조정용 자료에도 넣지 않았다.
+
 ## 2026-11-02 재검증: 실제 호출과 최신 화면
 
 로컬 `wrangler dev`에서 `GEMINI_API_KEY`를 읽고, `node eval/readTag.eval.ts --set 조정용 --check`로 사진 8장을 검사했다. 이어 `node eval/readTag.eval.ts --set 조정용 --server http://localhost:8787 --again`으로 같은 사진 8장을 **다시 실제 Gemini에 보냈다**. 모델 `gemini-3.5-flash-lite`, 프롬프트 판 `2efa7e1f`. 8개 요청 모두 HTTP 200, 실패·제한 0, 응답 시간 중앙값 3.4초·최대 5.1초였다. 값 있는 칸은 73/89칸 맞음·1칸 틀림·15칸 못 읽음, 표기 없는 칸은 11/103칸 잘못 채움, 정답에 없는 항목 10개를 더 읽었다. 원시 응답을 담은 결과 파일은 커밋하지 않는 `_개인기록/평가/결과/read-tag_조정용_2026-11-02T10-17-08-042Z.json`에 있다.

diff --git a/docs/midterm_compare/README.md b/docs/midterm_compare/README.md
@@ -50,7 +50,7 @@
 
 로컬 AI 서버에서는 2026-11-02 [CC0 차 진열 사진](https://commons.wikimedia.org/wiki/File:Various_Teas_from_South_Korea.jpg)의 조정용 사례 `rt01`([사진](../../public/demo/rt01.jpg))을 실제 Gemini로 읽었다. [사진을 고른 로컬 화면](07-ai-read-current.png)과 [실제 응답으로 채운 수정 칸](08-ai-result-current.png)에 상품명 `샘표순작연근우엉차`와 가격 `7100`이 보인다. 사진의 흐린 가격표 등은 잘못 읽을 수 있어 이 화면만으로 정확도를 주장하지 않는다.
 
-공개 사이트에서는 실시간 Gemini 연결이 작동하지 않아 세 사진의 **저장된 결과**만 보여 준다. 처음 열면 첫 사진의 결과가 펼쳐져 있고, 다른 사진 버튼을 누를 때도 AI 호출이나 온라인 가격 조회는 일어나지 않는다.
+공개 사이트에서는 실시간 Gemini 연결이 작동하지 않아 서로 다른 진열대 사진 세 장(차: CC0, [라면](../../public/demo/ramen.jpg)·[젤리](../../public/demo/jelly.jpg): 제작자 직접 촬영)의 **저장된 결과**만 보여 준다. 라면·젤리도 2026-11-02 로컬 Gemini 실제 응답이다. 처음 열면 첫 사진인 라면 진열대의 결과가 펼쳐져 있고(아래 두 사진은 `차 진열대`를 누른 화면), 다른 사진 버튼을 누를 때도 AI 호출이나 온라인 가격 조회는 일어나지 않는다.
 
 | 저장된 읽기 결과 | 2026-11-02 다나와 표시 최저가 |
 | :---: | :---: |
